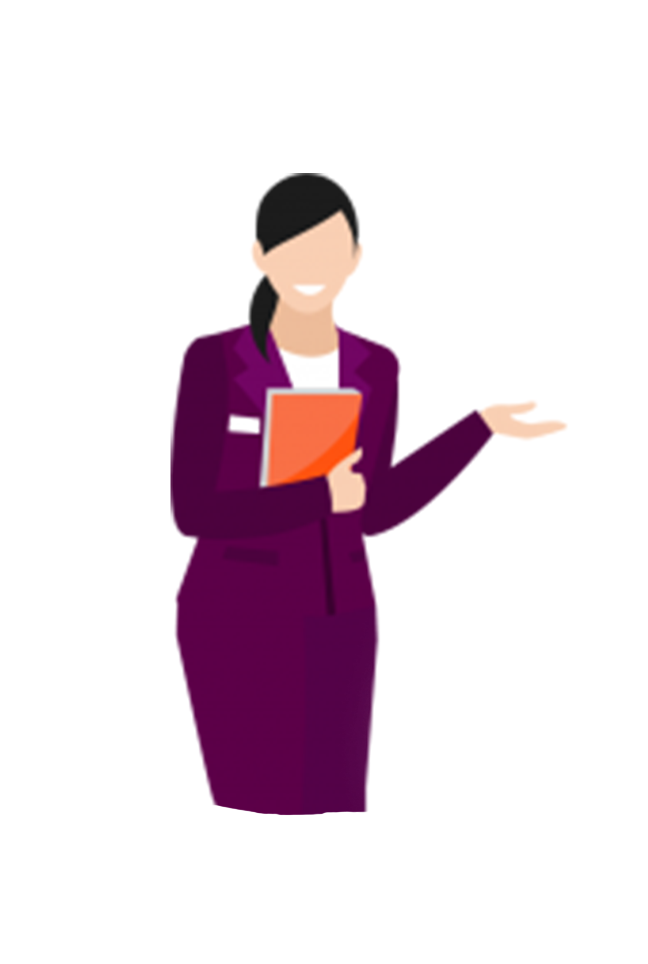
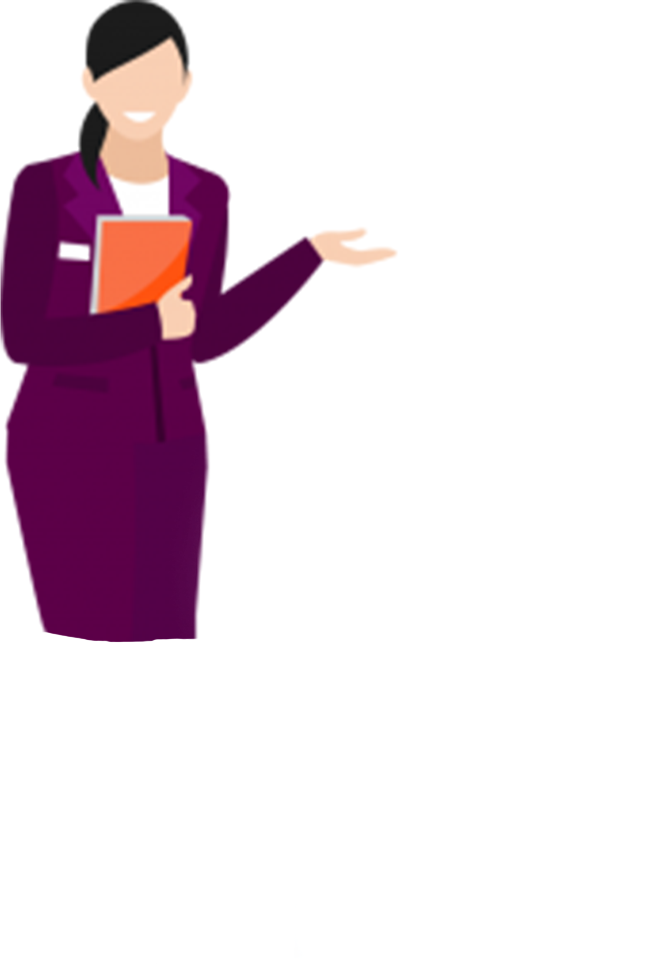
section-3

diff --git a/style.css b/style.css
@@ -33,11 +33,9 @@ body{
   gap: 40px;
 }
 section {
-  /* height: 100vh; */
   display: flex;
   align-items: center;
   flex-direction: column;
-  /* flex-wrap: wrap; */
 }
 
 img {
@@ -329,10 +327,10 @@ font-weight: 600;
 }
 
 .section-3 {
-  height: 60vh;
   display: flex;
   align-items: start;
   justify-content: center;
+  margin-top: 80px;
 }
 
 .section-3 .container {
@@ -342,25 +340,39 @@ font-weight: 600;
   align-items: center;
   border: #000 1px solid;
   width: 90%;
-  height: 70%;
   background: #1ba488;
   border-radius: 300px 0 0 300px;
 }
 
 .section-3 .container .left {
-  width:27%;
-  margin-bottom:1.5rem;
+  height: 15rem;
+  margin-left: 8em;
+  margin-bottom: 9.3em;
+}
+@media only screen and (max-width: 1200px) {
+  .section-3 .container .left {
+    margin-left: 8em;
+    margin-bottom: 6em;
+}
+}
+@media only screen and (max-width: 1000px) {
+  .section-3 .container .left {
+    margin-left: 8em;
+    margin-bottom: -3em;
 }
 
 
+
+}
 .section-3 .container .right {
-  width: 80%;
+  width: 100%;
   display: flex;
   flex-direction: column;
   align-items: center;
   gap: 10px;
   height: 100%;
-  
+  padding: 0 0 30px 0;
+  /* margin-bottom: 12em; */
 }
 
 .section-3 .container .right h4{
@@ -373,7 +385,7 @@ font-weight: 600;
   background: #FFF;
   padding: 5px;
   font-size: 1.5rem;
-  width: 40%;
+  width: 60%;
   text-align: center;
 }
 
@@ -395,6 +407,47 @@ font-weight: 600;
   font-size: 1.2rem;
 }
 
+@media only screen and (max-width: 900px) {
+  .section-3 .left {
+    display: none;
+  }
+.section-3 .container .right p{
+  font-size: 1rem;
+}
+.section-3 .container .right .lists ul{
+gap:10px
+}
+.section-3 .container .right .lists ul li {
+  font-size: 0.8rem;
+
+}
+.section-3 .container .right {
+width: 90%;
+}
+}
+@media only screen and (max-width: 600px) {
+  .section-3 .container{
+    width: 100%;
+  /* height: 0%; */
+    border-radius: 0;
+  }
+  .section-3 .container .right {
+    margin-left: 30px;
+    width: 95%;
+    padding-right: 50px;
+    width: 100%;
+    }
+.section-3 .container .right h4{
+  font-size: 1em;
+}
+.section-3 .container .right p{
+  font-size: 0.6em;
+}
+  .section-3 .container .right .lists ul li {
+    font-size: 0.4rem;
+  }
+}
+
 .btn {
   cursor: pointer;
   outline: none;
@@ -403,7 +456,7 @@ font-weight: 600;
   color: #FFF;
   width: 50%;
   padding: 15px 0;
-  /* margin-top: 40px; */
+  margin-top: 40px;
   font-size: 1.1rem;
   border-radius: 5px;
   transition: all 0.5s;
@@ -414,12 +467,12 @@ font-weight: 600;
 }
 
 .btn-container {
-  height: 70px;
+  height: 60px;
   display: flex;
   justify-content: center;
   align-items: center;
   background: #FFF;
-  /* margin-top: 80px; */
+  margin-top: 40px;
 }
 
 .btn-container .btn-back {
@@ -433,6 +486,7 @@ font-weight: 600;
   text-decoration: none;
   color: #FFF;
   transition: all 0.2s;
+  direction: ltr;
 }
 
 .btn-container .btn-back span {

diff --git a/index.html b/index.html
@@ -74,7 +74,7 @@
         <div class="container">
         <div class="right">
           <h4>تـسـتـهـل</h4>
-          <p>نـحـن نـقـدم خـدمـات الـتـبـشـيـر لــــــ:</p>
+          <p>نـحـن نـقـدم خـدمـات الـتـبـشـيـر لـــــــــ :</p>
           <div class="lists">
             <ul>
               <li>الأحـداث فـي الـهـواء الـطـلق, فـي الـداخـل</li>
